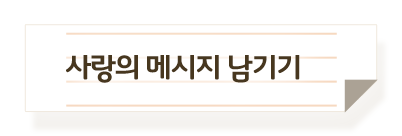
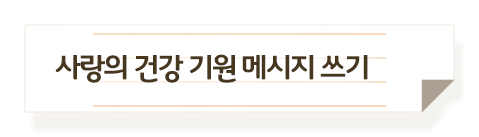
11111

diff --git a/js/main.js b/js/main.js
@@ -499,6 +499,22 @@ function check_agree(param, id)
 // 		}
 // 	}
 // }
+function download_img()
+{
+	if (localStorage.type == 1)
+		var change_rs_img = "./files/" + localStorage.serial + "/maumbot_takecare" + localStorage.size + ".jpg";
+	else if (localStorage.type == 2)
+		var change_rs_img = "./files/" + localStorage.serial + "/maumbot_loveyou" + localStorage.size + ".jpg";
+	else if (localStorage.type == 3)
+		var change_rs_img = "./files/" + localStorage.serial + "/maumbot_thanks" + localStorage.size + ".jpg";
+	else if (localStorage.type == 4)
+		var change_rs_img = "./files/" + localStorage.serial + "/maumbot_cheerup" + localStorage.size + ".jpg";
+	else if (localStorage.type == 5)
+		var change_rs_img = "./files/" + localStorage.serial + "/maumbot_dontworry" + localStorage.size + ".jpg";
+
+	location.href = "./ajax_download.php?rs="+change_rs_img;
+
+}
 
 function kakao_send()
 {

diff --git a/css/common.css b/css/common.css
@@ -237,15 +237,22 @@ html.popup-opened {
 .popup.thanks .thanks-wrap .thanks-area .confirm-btn{
 	display: inline-block;
 	background: url(../images/popup_thanks_confirm.png) center no-repeat;
-	width: 219px;
-	height: 58px;
+	width: 153px;
+	height: 56px;
 	margin-left: 8px;
 }
 .popup.thanks .thanks-wrap .thanks-area .kakao-btn{
 	display: inline-block;
 	background: url(../images/popup_thanks_kakao.png) center no-repeat;
-	width: 219px;
-	height: 58px;
+	width: 153px;
+	height: 56px;
+}
+.popup.thanks .thanks-wrap .thanks-area .download-btn{
+	display: inline-block;
+	background: url(../images/popup_thanks_download.png) center no-repeat;
+	width: 153px;
+	height: 56px;
+	margin-left: 8px;
 }
 .popup.agree1 {
 /*	height: 556px;*/

diff --git a/css/sub.css b/css/sub.css
@@ -128,7 +128,7 @@ input[type="checkbox"]:focus {
 	width: 26.1458%;
 }
 .sub-wrap .inner .title-area._2 {
-	width: 24.01%;
+	width: 27.71%;
 }
 .sub-wrap .inner .title-area._3 {
 	width: 24.73%;
@@ -407,6 +407,7 @@ input[type="checkbox"]:focus {
 	-webkit-transform-origin: center top;
 	transform-origin: center top;
 	opacity: 0;
+	z-index: 9;
 }
 .sub-wrap .inner .select-menu * {
 /*	opacity: 0;*/
@@ -425,6 +426,12 @@ input[type="checkbox"]:focus {
 }
 .sub-wrap .inner .select-menu li {
 	padding: 3.8% 0;
+	border-bottom: 1px solid #d8d6d2;
+	margin: 0 2% 0 2%;
+}
+.sub-wrap .inner .select-menu li:last-child {
+	border-bottom: 0;
+	margin: 0 2% 0 2%;
 }
 .sub-wrap .inner .select-menu li .desc {
 	margin: 0 auto;

diff --git a/css/main.css b/css/main.css
@@ -127,8 +127,8 @@ body {
 .section1-wrap .inner .button button .pencil {
 	position: absolute;
 	top: 17px;
-/*	margin-left: 100px;*/
-	right: 26px;
+	/* right: 26px; */
+	right: 41px;
 	-webkit-animation-name: move-icon;
 	animation-name: move-icon;
 	-webkit-animation-duration: 1300ms;

diff --git a/sub3.php b/sub3.php
@@ -52,7 +52,7 @@ document.write(unescape("%3Cscript src='" + _nsmart.host + "n00.nsmartad.com/etc
 									</li>
 									<li>
 										<div class="desc _3">
-											<img src="./images/sub_step3_desc_3.jpg" alt="">
+											<img src="./images/sub_step3_desc_3.png" alt="">
 										</div>
 										<div class="check">
 											<label for="check3"></label>
@@ -79,7 +79,7 @@ document.write(unescape("%3Cscript src='" + _nsmart.host + "n00.nsmartad.com/etc
 						<div class="btn-area _3">
 							<!-- <a href="" download> -->
 								<button type="button" onclick="go_next();">
-									<img src="./images/sub_step3_btn.jpg" alt="">
+									<img src="./images/sub_step3_btn.png" alt="">
 								</button>
 								<!-- <div class="balloon">
 									<img src="./images/sub3_message_balloon.png" alt="">
@@ -97,7 +97,7 @@ document.write(unescape("%3Cscript src='" + _nsmart.host + "n00.nsmartad.com/etc
 		</div>
 		<script>
 			var rs_img = "";
-			var change_rs_img = "";
+			// var change_rs_img = "";
 			$(window).on('load', function() {
 				if (localStorage.type == 1)
 					rs_img	= "./files/" + localStorage.serial + "/maumbot_takecare2.jpg";

diff --git a/sub4.php b/sub4.php
@@ -142,6 +142,7 @@ document.write(unescape("%3Cscript src='" + _nsmart.host + "n00.nsmartad.com/etc
 					<div class="thanks-area">
 						<div class="button-area">
 							<button class="kakao-btn" onclick="kakao_send()"></button>
+							<button class="download-btn" onclick="download_img()"></button>
 							<button class="confirm-btn" onclick="location.href='index.php'"></button>
 						</div>
 						<img src="./images/popup_thanks_bg.jpg" alt="">
@@ -167,10 +168,9 @@ document.write(unescape("%3Cscript src='" + _nsmart.host + "n00.nsmartad.com/etc
 		<script src="http://dmaps.daum.net/map_js_init/postcode.v2.js"></script>
 
 		<script>
-
-//			$(window).on('load', function() {
-//				$('#popup-open-btn').trigger('click');
-//			});
+			// $(window).on('load', function() {
+			// 	hh_maum9.popup.show($("#popup-thanks"));
+			// });
 			$('.checkbox').on('click', function(event) {
 				hh_maum9.popup.show($("#popup-thanks"));
 				event.stopPropagation();
